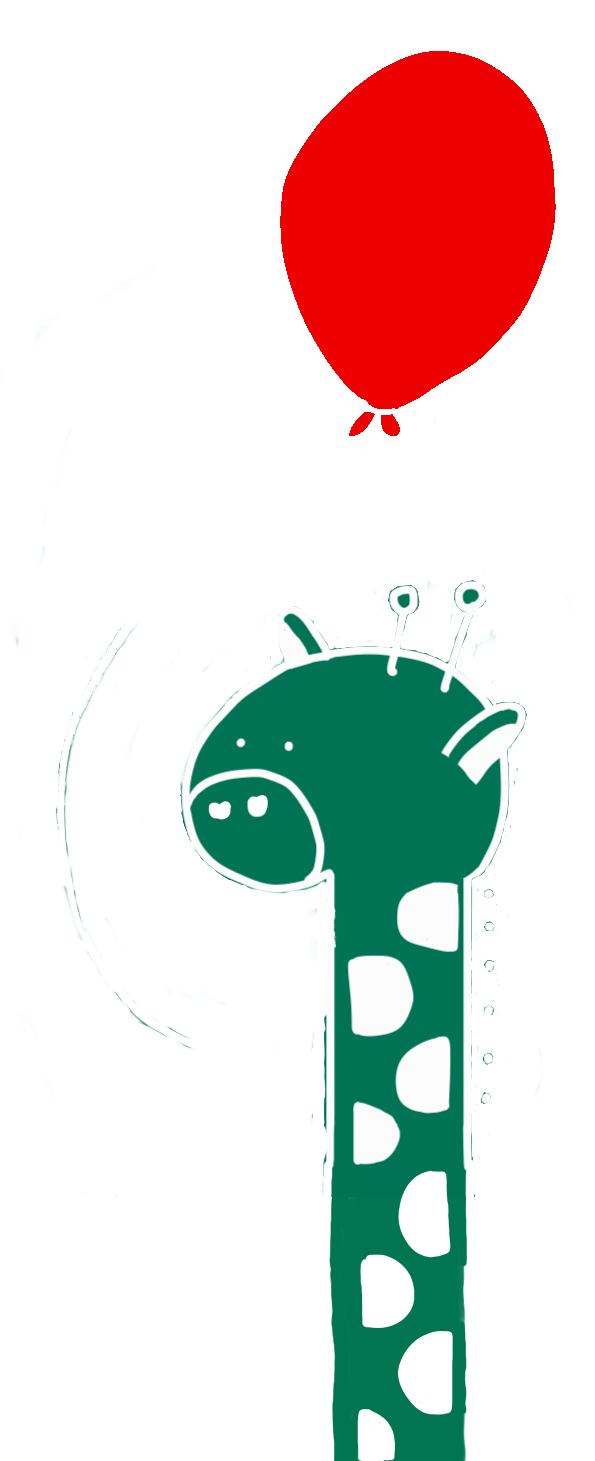
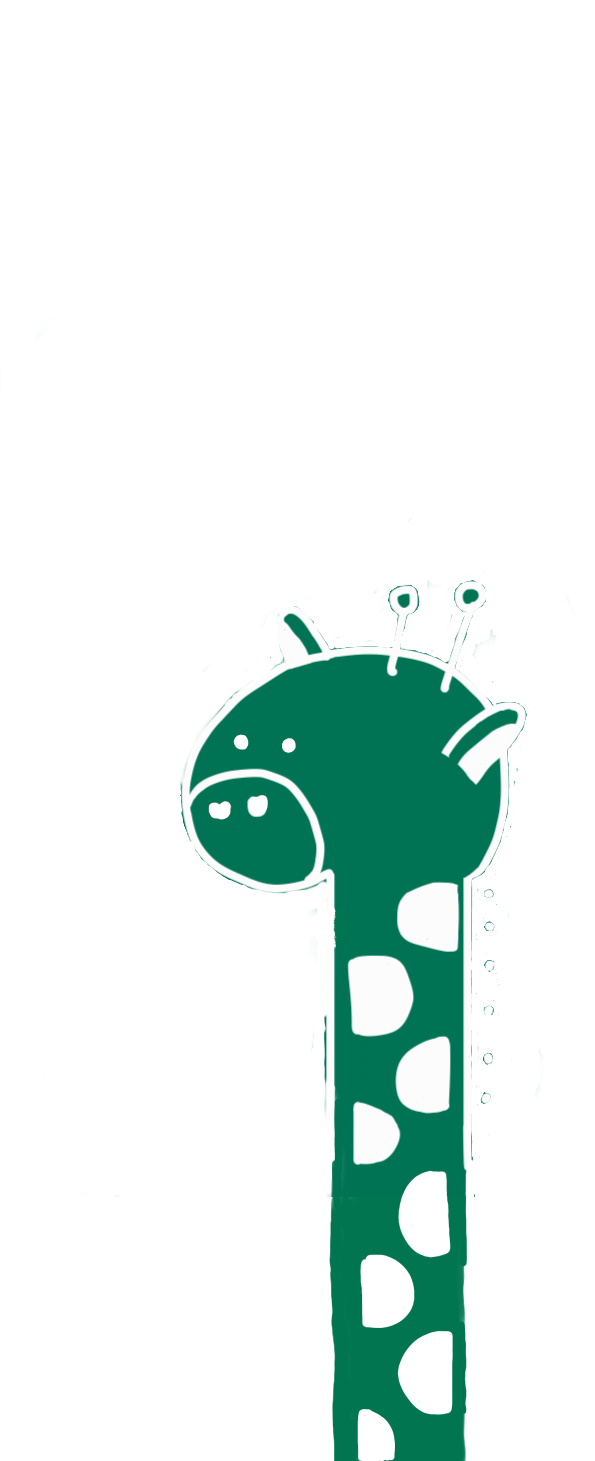
refactor: 기린에서 풍선 없애기 초카운트 가운데 크게

diff --git a/src/Giraffe.jsx b/src/Giraffe.jsx
@@ -19,7 +19,7 @@ const Giraffe = () => {
   const [isSubmitted, setIsSubmitted] = useState(false);
   const [playerName, setPlayerName] = useState("");
   const [nameError, setNameError] = useState("");
-  const [neckOffset, setNeckOffset] = useState(-500);
+  const [neckOffset, setNeckOffset] = useState(-400);
 
 
   const audioRef = useRef(null);
@@ -221,6 +221,7 @@ const Giraffe = () => {
         setIsSubmitted(false);
         setBackgroundOffset(MAX_OFFSET);
         setRemainingTime(15.0);
+        setNeckOffset(-400);
         startTimeRef.current = null;
       }
     };
@@ -274,11 +275,11 @@ const Giraffe = () => {
       <div
         style={{
           position: "absolute",
-          bottom: `${neckOffset+620}px`,
-          left: "55%",
+          top: `10px`,
+          left: "50%",
           transform: "translateX(-50%)",
           color: "white",
-          fontSize: "30px",
+          fontSize: "50px",
           zIndex: 30,
           fontFamily: "'Luckiest Guy', cursive",
         }}
@@ -378,8 +379,9 @@ const Giraffe = () => {
         top: `-${backgroundOffset}px`,  
         left: "50%",
         transform: "translateX(-50%)", 
-        width: "45%",
-        height: "7000px",
+        width: "35%",
+        transition: "top 0.3s ease-out",
+        height: "10000px",
         zIndex: 10,  
         }}
         >
@@ -398,6 +400,7 @@ const Giraffe = () => {
         style={{
           position: "fixed",
           bottom: `${neckOffset}px`,
+          transition: "bottom 0.8s cubic-bezier(0.25, 1, 0.5, 1)",
           left: "50%",
           transform: "translateX(-50%)",
           zIndex: 20,
